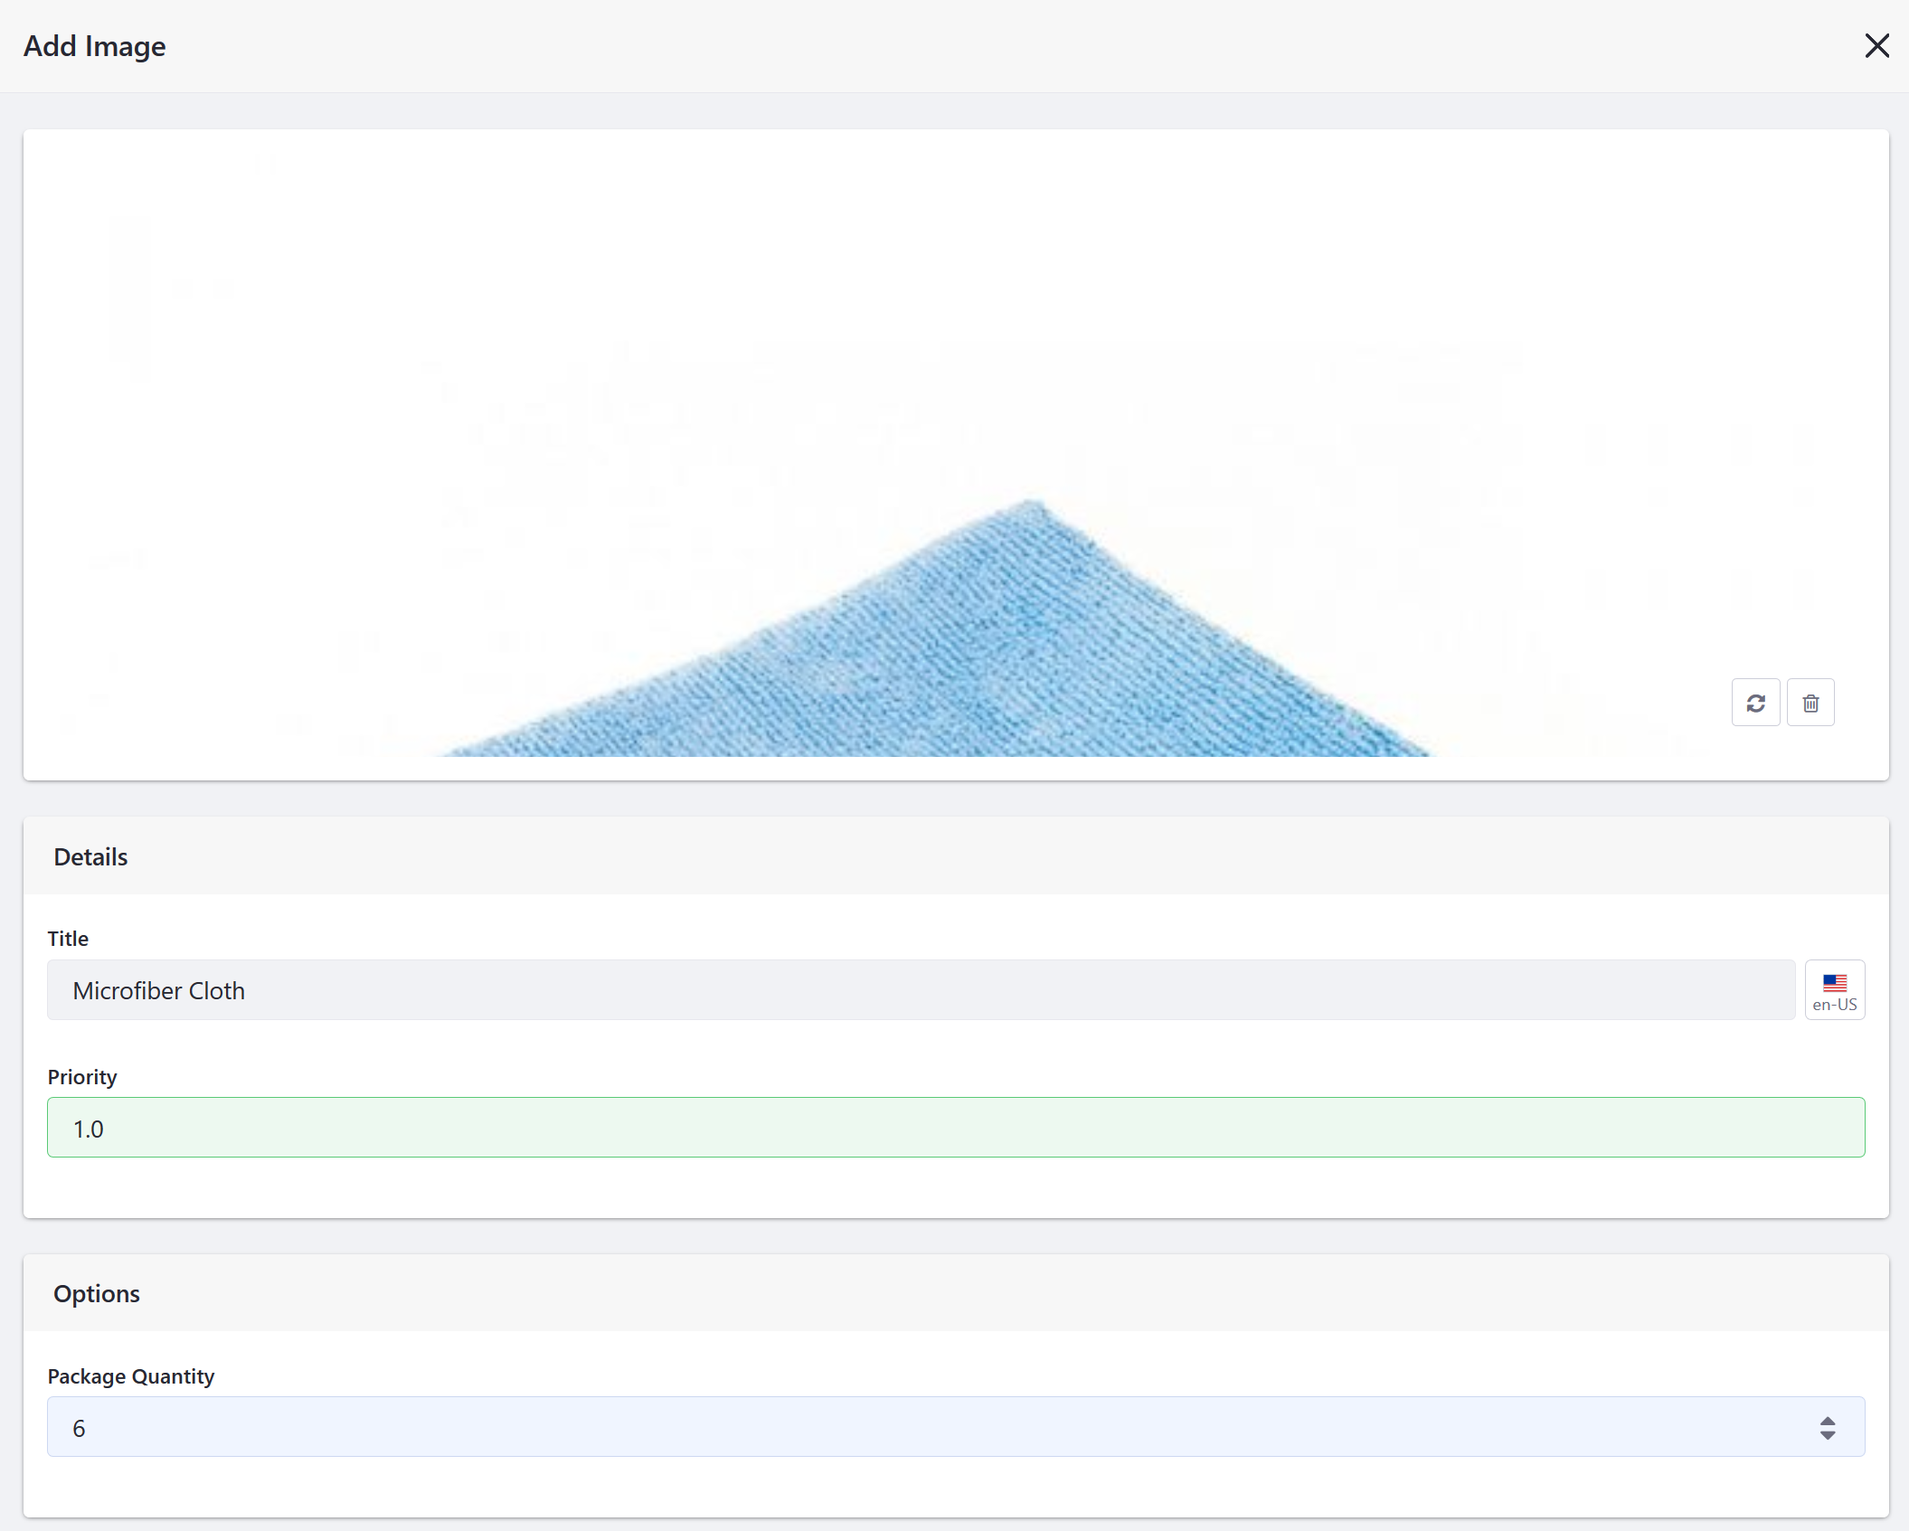
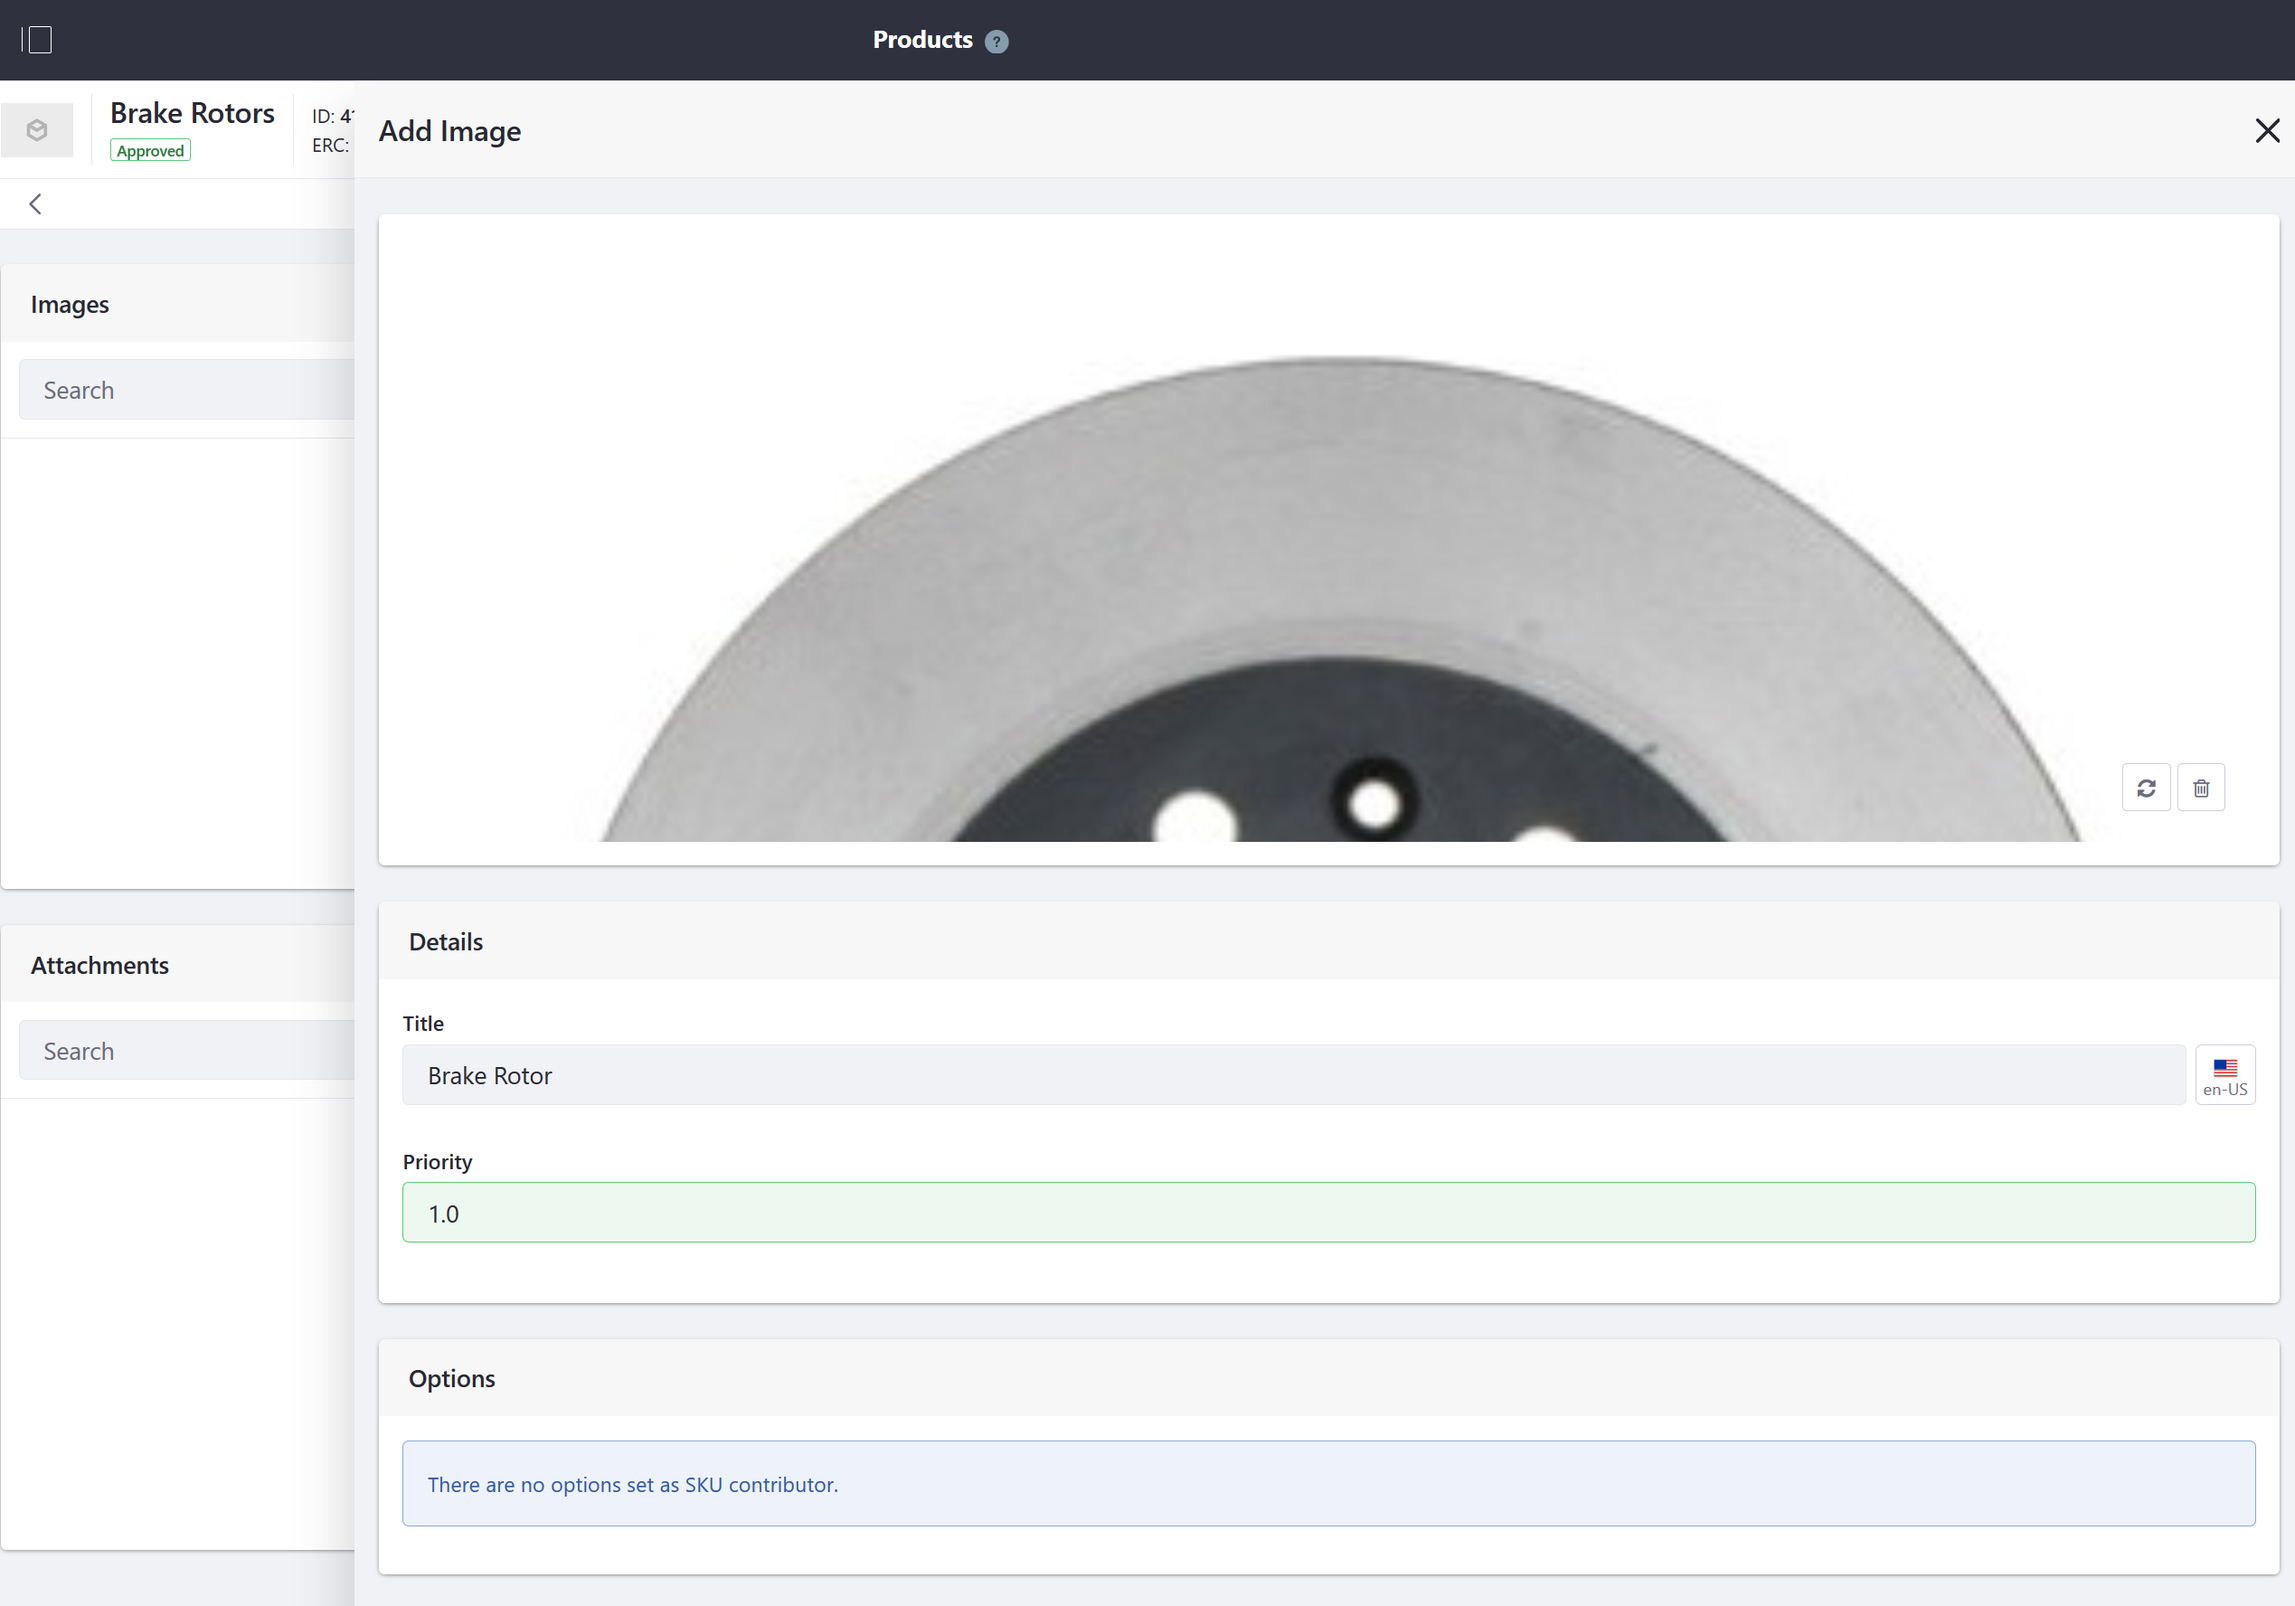
Point to the Media tab

diff --git a/docs/commerce/2.x/en/managing-a-catalog/creating-and-managing-products/product-images.md b/docs/commerce/2.x/en/managing-a-catalog/creating-and-managing-products/product-images.md
@@ -9,11 +9,14 @@ This article documents how to add images to a product.
 To add a single image:
 
 1. Navigate to _Control Panel_ → _Commerce_ → _Products_.
-1. Click on a product (in this example, _Microfiber Cloth_).
+1. Click on a product (in this example, _Brake Rotors_).
 1. Click the _Media_ sub-tab.
+
+    ![Adding a product image](./product-images/images/08.png)
+
 1. Click the (+) button to add a product image.
 1. Drag and drop an image or click _Select File_ to upload an image.
-1. Enter a title: _Microfiber Cloth_.
+1. Enter a title: _Brake Rotor_.
 
     ![Adding a product image](./product-images/images/06.png)
 
@@ -52,8 +55,15 @@ Once you have created Product Options and generated the corresponding SKUs, you 
 
 1. Navigate to _Control Panel_ → _Commerce_ → _Products_.
 1. Click on a product, in this example, _Hoses_.
-    >If you had used Minium to create your store and sample data, this product was added by the Minium accelerator.
+
+    ```note::
+       If you had used Minium to create your store and sample data, this product was added by the Minium accelerator.
+    ```
+
 1. Click the _Media_ sub-tab.
+
+    ![Hoses Media tab](./product-images/images/09.png)
+
 1. Click the (+) button to add a product image.
 1. Drag and drop an image or click _Select File_ to insert an image.
 1. Click on the existing image.
